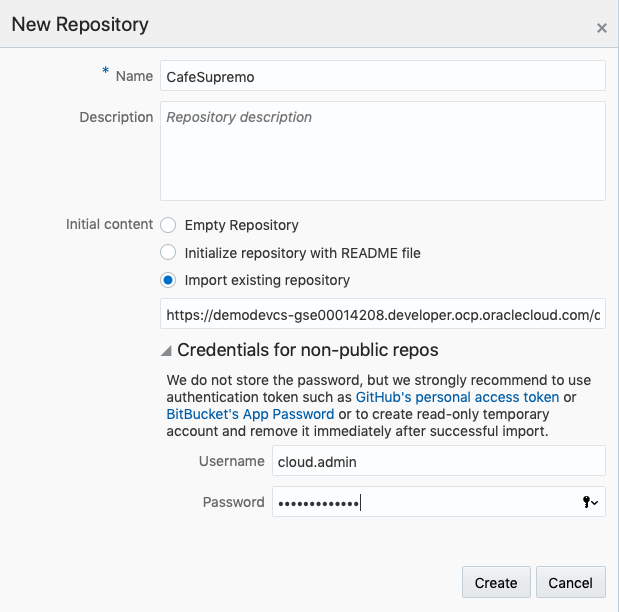
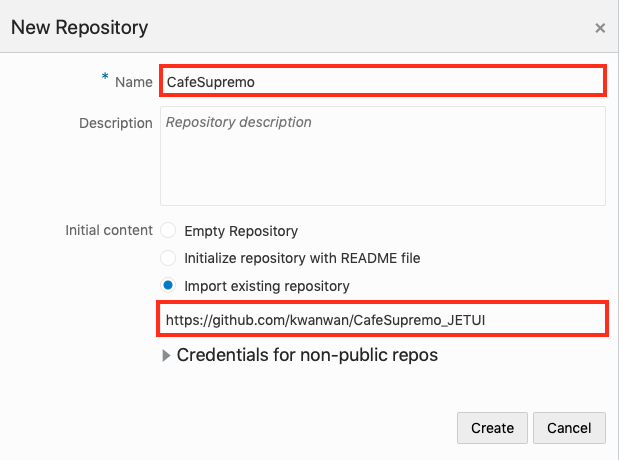
Replaced provisioning of DBCS with ATP

diff --git a/100-PREPARElab.md b/100-PREPARElab.md
@@ -28,84 +28,93 @@ In this exercise, we will:
 
 
 
-## Provision a Database Cloud Service (DBCS) or Autonomous Transaction Processing Instance (ATP)
+## Provision an Autonomous Transaction Processing Instance (ATP)
 
 **This step is Optional**
 
 **You will be advised by you instructor**
 
-Due to the time it takes to provision an instance, the instructor may have already created one for you. It also make sense that a single DBCS/ATP instance should be shared by all lab participants, hence there is no need to create separate instances. The following steps are for your reference and you may dive into an existing instance to explore its configuration and administration tools.
+Due to the resource constrain, the instructor may have already created one for you. It also make sense that a single ATP instance should be shared by all lab participants, hence there is no need to create separate instances. The following steps are for your reference and you may dive into an existing instance to explore its configuration and administration tools.
 
 
-### **STEP 1**: Sign Into The Oracle Cloud Service Account
+### **STEP 1**: Sign Into Your OCI Console
 
-- Sign into your Oracle Cloud Service account
+- Please refer to the Cloud Account that has been provided by your administrator.
+
+- Open your browser (Safari, Firefox or Chrome) and go to your Oracle Cloud Infrastructure Console URL. The OCI Console URL is:
+
+  https://console.us-ashburn-1.oraclecloud.com/#/a/
+
+This URL may be different to the one you are provided with. Use the provided URL if it is different to the above.
+
+You can also access the OCI Console URL from your Cloud Dashboard.
+
+- Click on **Change tenant** button if you are not presented with the Cloud Tenant input form.
+
+![](images/1.png)
+
+- Enter your Cloud Tenant Name in the input field and click the Continue button. This will return you to the Cloud Dashboard.
+
+![](images/2.png)
+
+- Enter your OCI user name and password
+
+![](images/3.png)
+
+- Make sure you're in your region, otherwise select your region from the dropdown menu.
+
+![](images/4.png)
 
 
 
-### **STEP 2**: Create a DBCS Instance
+### **STEP 2**: Create an ATP Instance
 
-- On the dashboard click the hamburger icon on the **Database Classic** tile and select **Open Service Console**
+Before creating an instance, we need to create a dedicated Compartment for the instance to be hosted in.
 
-  ![](images/01.png)
+- Click on the **Menu** button at the top left corner of your console and select **Identity -> Compartments**
 
-- Once in the Database Cloud Service Console page, create a new instance by clicking **Create Service** button
+![](images/5.png)
 
-  ![](images/1.1.png)
+- Click on the **Create Compartment** button and enter the following parameters:
 
-
-#### **STEP 2.1**: Basic Instance Configuration
-
-- Complete the Create Instance Page as illustrated below:
-
-  ![](images/02.png)
-
-- Enter the following parameters:
-
-  - **Instance Name**: `demoDB`
-  - **Region**: `us-ashburn-1` or `us-phoenix-1` for your tenancy
-  - **Software Release**: `12c Release 1 Software`
-  - **Software Edition**: `Enterprise Edition software edition`
-  - **Database Type**: `Single Instance`
-  - **License Type**: `Subscribe to a new Oracle Database software license`
+  - **NAME**: `ATP_Demo`
+  - **DESCRIPTION**: `Compartment for ATP CTD`
+  - **PARENT COMPARTMENT**: `(root)`
   - Leave the rest to default
 
-- Click **Next**
+- Click **Create Compartment**
+
+![](images/6.png)
+
+- Click on the **Menu** button at the top left corner of your console and select **Autonomous Transaction Processing**
+
+![](images/7.png)
+
+- Once in the ATP Console page, select the **CTD** compartment your just created from the dropdown menu. And click **Create Autonomous Transaction Processing Database**
+
+  ![](images/8.png)
+
+- Click on **Create Autonomous Transaction Processing Database** and enter the following parameters:
+
+  - **COMPARTMENT**: `ATP_Demo`
+  - **DISPLAY NAME**: `ATP Demo DB`
+  - **DATABASE NAME**: `ATPDemoDB`
+  - **CPU CORE COUNT**: `1`
+  - **STORAGE(TB)**: `1`
+  - **PASSWORD**: DB's administration password. Please take note of the password.
+  - Leave the rest to default
+
+  ![](images/9.png)
+
+- Click on **Create Autonomous Transaction Processing Database**
+
+**NOTE**:  Your ATP instance will take about 4 minutes to complete.
+Once finished, it will be in the **Available** state as shown below:
+
+  ![](images/9.1.png)
 
 
-#### **STEP 2.2**: Detailed Instance Configuration
-
-The last input page is the Service Details page.
-
-   ![](images/03.png)
-
-
-The following parameters have to be provided:
-
-  - **Administration Password**: DB's password. Please take note of the password.
-  - **Compute Shape**: `VM.Standard1.1 - 1.0 OCPU, 7GB RAM` or `VM.Standard2.1 - 1.0 OCPU, 15GB RAM`
-  - **SSH Public Key**: Provide a public key which will be uploaded to the VM during the creation. It allows you to connect to the VM through ssh connection using the private key.
-    - If you don't have or want to create a new key pair then select **Create a New Key** option and download the newly generated keypair for later usage
-  - **Storage Username**: Your Oracle Cloud username e.g. `cloud.admin`
-  - **Storage Password**: Cloud Account password
-  - **Backup Destination**: Change to `None` In production you will want to enable backup and specify the storage location
-  - **Create Instance from Existing Backup**: Leave to default of `No`
-
-- Click **Next**
-
-- Confirms the details on the next page and then click **Create**
-
-   ![](images/3.1.png)
-
-
-**NOTE**:  Your DBCS instance will take about 30 minutes to complete. Please wait until the DBCS instance has been completed before creating a JCS instance. Whilst we are waiting for the DBCS instance to be provisioned, we can work on other infrastructure components such as Developer Cloud Service.
-
-- Once your DBCS is ready, your instance should appear similar to below:
-
-   ![](images/3.2.png)
-
-
-*Please move on to the next section whilst you're waiting for the DBCS instance to be provisioned.*
+*Congratulation! You have provisioned an ATP database.*
 
 
 

diff --git a/200-IMPORTlab.md b/200-IMPORTlab.md
@@ -4,7 +4,7 @@
 
 ![](images/header06.png)
 
-We will create a project for the Café Supremo in Developer Cloud Service and bring the application code into this project to be managed by Developer Cloud. We will also examine other chain tools that comes with DevCS such as branch merge request, issue tracking, Agile development, release management and team collaboration.
+We will create a project for the Café Supremo in Developer Cloud Service and bring the application code into this project to be managed by Developer Cloud. We will also examine the chain tools that comes with DevCS such as Git repository, branch merge request, issue tracking and team collaboration.
 
 Developer Cloud Service uses Git as the Source Code Management system and is compatible with other Git systems. The Git repository created in Developer Cloud Service is a private repository and requires authentication to access it.
 
@@ -25,15 +25,17 @@ In this exercise, we will:
 
 - Go back to the Developer Cloud Service Console
 
+  ![](images/137.png)
+
 - Create a new project by clicking **New Project**
 
-- Enter `CafeSupremoXX` in the **Name** field, where XX is your user number
+- Enter `CafeSupremo_YourName` in the **Name** field, where `YourName` is your user own name. This is because every attendee will be creating a project in this tenancy and we need to create projects with unique names. In fact you can name it whatever you want.
 
 - Click **Next**
 
   ![](images/25.png)
 
-- Select an **Empty Project** for now and we will upload the Git repositories later from a project archive
+- Select an **Empty Project** for now and we will upload the Git repositories later from an existing repository.
 
   ![](images/26.png)
 
@@ -41,15 +43,20 @@ In this exercise, we will:
 
   Project creation will start upon selecting Finish.
 
-**NOTE**: The project creation will take approximately 2 minutes to complete and it will automatically take you to the new project home page.
+**NOTE**: The project creation will take approximately 2 minutes to complete and it will automatically take you to the new project home page once finished.
 
 
 
-### **STEP 2**: Import Code Repositories
+### **STEP 2**: Import Source Code
 
-You should have an empty project after the project creation completes. We now need to populate the project with your application source code. The code for the JET UI frontend and the Node.js RewardService backend has already been created so you don't need to create the application from scratch. The code is stored in two separate Git repositories to simulate two separate development teams working independently on the frontend and backend.
+You should have an empty project after the project creation completes. We now need to populate the project with your application source code. The code for the JET UI frontend has already been created so you don't need to create the application from scratch. This is often the case where you want to bring an existing application into the Cloud and modernise it with CI/CD for example.
 
-- On the project home page, you will see the activities displayed on the left hand pane and the on the right is your available repositories. There should be a **Maven** repository by default.
+For some development teams, they may have already started their modernisation by adopting modern Open Source tools like Git for source code management. And they have already pushed their code to Git. For these developers, they can simply import their code directly from their existing Git repository. Otherwise, you will to upload the source code manually through a local Git Client.
+
+For this lab, we will assume your code is already hosted in GitHub and you can import it simply by providing the repository URL.
+
+
+- On the project home page, you will see the activities displayed on the left hand pane and on the right is your available repositories. There should be a **Maven** repository by default.
 
   ![](images/130.png)
 
@@ -58,30 +65,17 @@ You should have an empty project after the project creation completes. We now ne
 - Complete the New Repository dialog as illustrated below:
   - **Name**: CafeSupremo
   - **Intial content**: Import existing repository
-  - **Import existing repository**: `https://demodevcs-gse00014208.developer.ocp.oraclecloud.com/demodevcs-gse00014208/s/demodevcs-gse00014208_cafesupremo_2682/scm/CafeSupremo.git`
-  - **Username**: cloud.admin
-  - **Password**: This will be provided by the instructor
+  - **Import existing repository**: `https://github.com/kwanwan/CafeSupremo_JETUI`
 
     ![](images/131.png)
 
 - Click **Create**
 
-- Repeat the above to import the RewardService backend repository named **RewardService** with the following data:
-- **Name**: RewardService
-- **Intial content**: Import existing repository
-- **Import existing repository**: `hhttps://cloud.admin@demodevcs-gse00014208.developer.ocp.oraclecloud.com/demodevcs-gse00014208/s/demodevcs-gse00014208_cafesupremo_2682/scm/RewardService.git`
-- **Username**: cloud.admin
-- **Password**: This will be provided by the instructor
-
-  ![](images/132.png)
-
-- Click **Create**
-
-- Go back to the project home page and you should see the two new repositories you just imported.
+- Go back to the project home page and you should see the new repository you just imported.
 
   ![](images/133.png)
 
-**You have successfully imported the code repositories.**
+*Congratulation! You have successfully imported the source code.*
 
 
 
